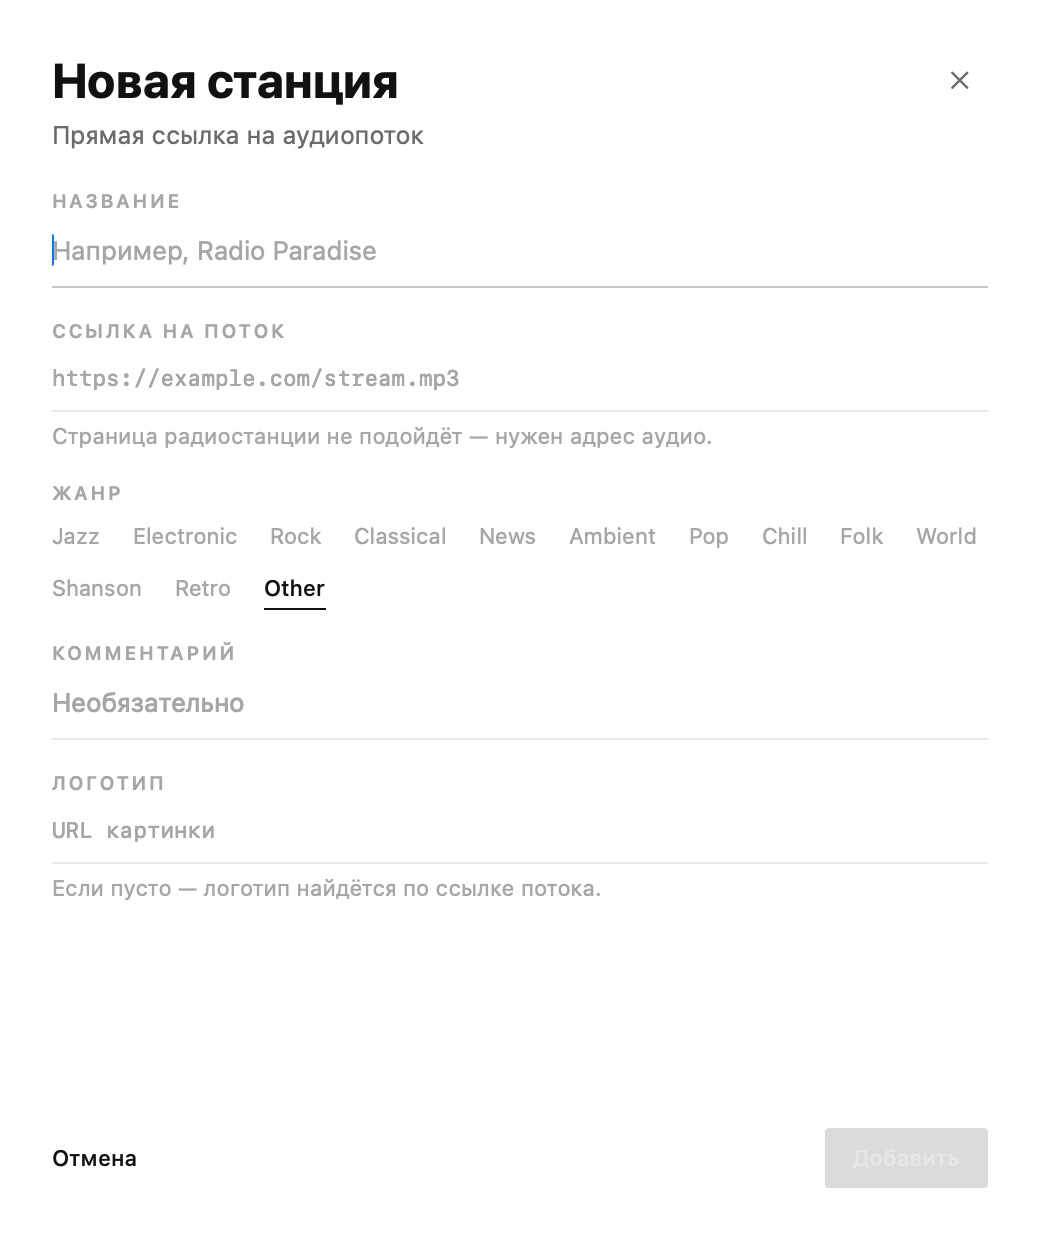
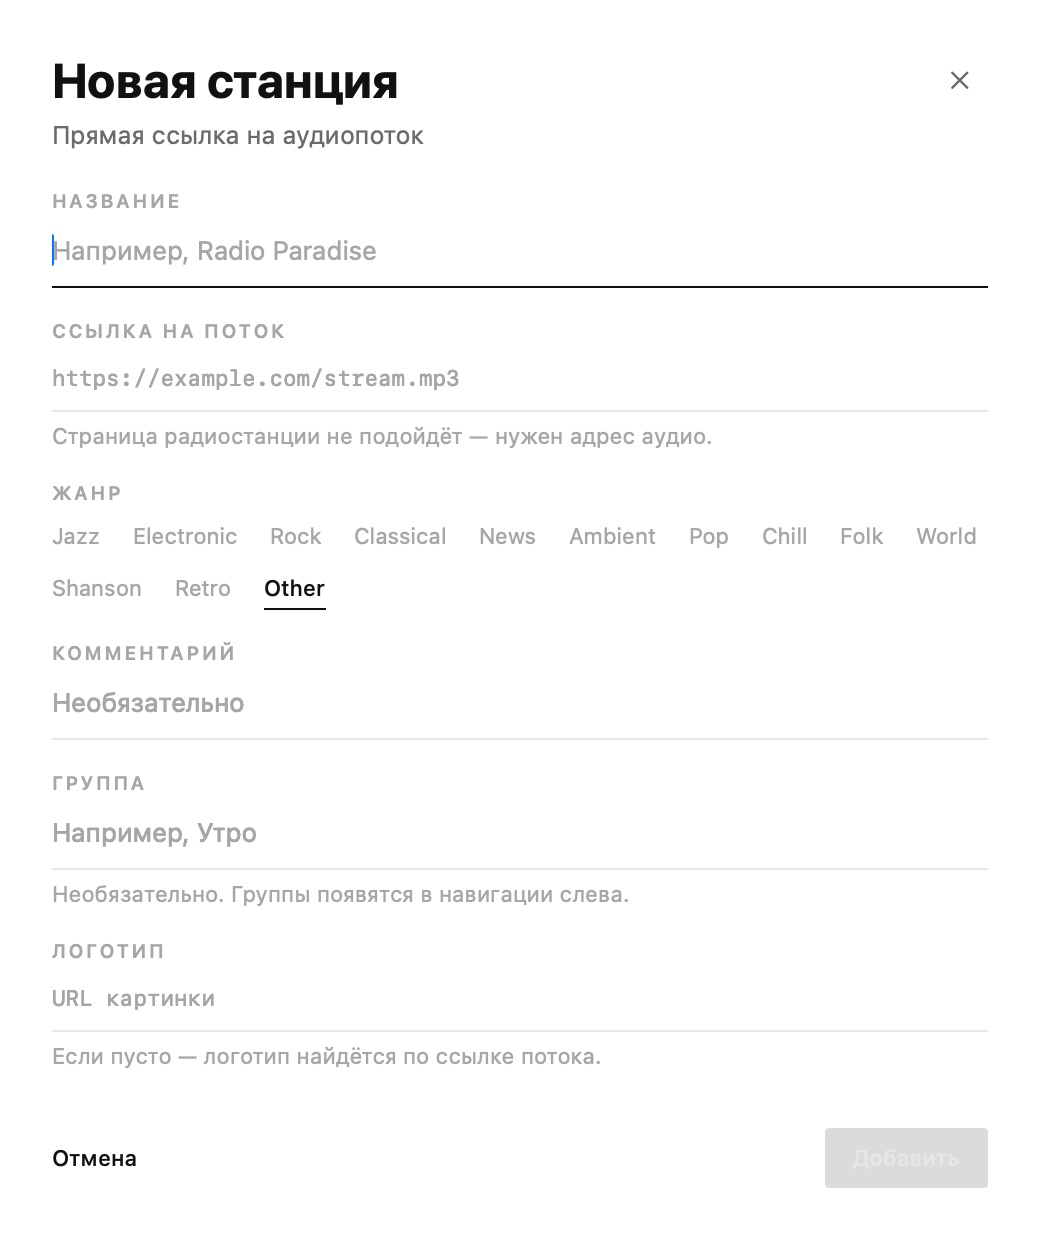
docs: document stream diagnostics and station groups (#4, #6)
- refresh README, CHANGELOG and the roadmap
- update wiki pages and screenshots for the new settings and editor
- let the wiki link checker accept local image files

Changed region(s): [[0.0615, 0.6129, 0.5846, 0.7355], [0.0615, 0.7968, 0.5846, 0.8581]]

diff --git a/scripts/check_wiki.py b/scripts/check_wiki.py
@@ -13,6 +13,7 @@ WIKI = ROOT / "wiki"
 SPECIAL = {"_Sidebar.md", "_Footer.md"}
 LINK_RE = re.compile(r"\[[^\]]*\]\(([^)]+)\)")
 EXTERNAL_PREFIXES = ("http://", "https://", "mailto:", "tel:", "data:", "#")
+FILE_SUFFIXES = (".jpg", ".jpeg", ".png", ".gif", ".webp", ".svg", ".pdf")
 
 
 def page_files() -> dict[str, pathlib.Path]:
@@ -28,6 +29,10 @@ def check_links(pages: dict[str, pathlib.Path]) -> list[str]:
                 continue
             page = target.split("#", 1)[0]
             if not page:
+                continue
+            if page.lower().endswith(FILE_SUFFIXES):
+                if not (WIKI / page).is_file():
+                    problems.append(f"{path.name}: missing local file '{target}'")
                 continue
             page = page.removesuffix(".md")
             if page not in pages:

diff --git a/ROADMAP.md b/ROADMAP.md
@@ -1,0 +1,82 @@
+# Roadmap и бэклог
+
+Список задач и фич для RadioMac. Приоритеты:
+
+- **P0** — качество эфира и дистрибуция: без этого приложение теряет в надёжности или
+  не может нормально распространяться.
+- **P1** — ежедневный сценарий: заметно улучшает повседневное использование.
+- **P2** — расширение и технический долг: полезно, но не блокирует релиз.
+
+✅ — реализовано локально, тесты 16/16; изменения ждут коммита.
+
+Каждый ID — кандидат в карточку GitHub Project
+[RadioMac #11](https://github.com/users/fso13/projects/11). В колонке «Результат» —
+критерий готовности.
+
+## P0 — сначала
+
+| ID | Задача | Результат |
+| --- | --- | --- |
+| RM-01 | **Рабочий эквалайзер на Apple Silicon** | 10 полос и пресеты работают на macOS 27/arm64 без ошибки BASS_FX 41; настройки сохраняются. Замена BASS_FX на `AVAudioUnitEQ` или совместимую сборку. |
+| RM-02 | **Поддержка HLS** | Потоки `.m3u8` (например, SOUNDPARK DEEP) играют через AVPlayer/AVAudioEngine; метаданные и Now Playing работают. |
+| RM-03 | **AAC без x86_64** | AAC-потоки (Radio Maximum) играют на Apple Silicon без Rosetta: universal `libbass_aac` или CoreAudio-путь. |
+| RM-04 | **Автопереподключение потока** | При обрыве — статус «Переподключение…», backoff 1/2/5/10 с, ограничение попыток и ручной retry. Поток восстанавливается без перезапуска станции. |
+| RM-05 | **Подпись Developer ID и нотарификация** | Релизные DMG/PKG подписаны, нотарифицированы и stapled; `spctl --assess` проходит на чистом Mac; в заметках релиза нет `xattr`-инструкции. |
+| RM-06 | **Убрать Flutter-наследие из main** | Flutter-версия перенесена в ветку/тег `flutter-legacy`; в `main` нет `macos/Podfile` и `Runner.xcodeproj`; CI/CodeQL больше не спотыкаются о старый проект. |
+
+## P1 — ежедневный сценарий
+
+| ID | Задача | Результат |
+| --- | --- | --- |
+| RM-07 | **Таймер сна** | 15/30/60/90 минут, плавное затухание за 5 секунд, индикатор в окне и меню-баре, отмена. |
+| RM-08 | **Глобальные горячие клавиши** | Настраиваемые play/pause и следующая станция при скрытом окне; проверка конфликтов с системными шорткатами. |
+| RM-09 | **App Intents, Shortcuts и URL scheme** | Команды «Играть станцию», «Пауза», «Открыть окно»; URL `radiomac://play/<id>`; интеграция с приложением «Команды». |
+| RM-10 | **История треков** | Последние 100 треков: станция, время, исполнитель; поиск, копирование, очистка; хранение локально. |
+| RM-11 | **Поиск по Radio Browser** | Поиск тысяч станций по названию, жанру и стране, превью потока, добавление в библиотеку и защита от дублей. |
+| RM-12 | **Импорт и экспорт станций** | OPML, M3U и JSON; drag-and-drop, выбор «добавить/заменить», сохранение избранного. |
+| RM-13 | **Настройки на станцию** | Смещение громкости, свой EQ-пресет и автозапуск для конкретной станции; сохраняется в библиотеке. |
+| RM-14 | **Автообновление (Sparkle 2)** | Appcast, EdDSA-подпись, проверка обновлений в приложении и в CI; переход с 1.0.1 на 1.0.2 без ручного DMG. |
+| RM-15 | **Мини-плеер в меню-баре** | Поповер с обложкой, названием, play/pause, громкостью и быстрым выбором станции — без открытия основного окна. |
+| RM-16 | **Локализация и доступность** | String Catalogs для ru/en; VoiceOver-метки, порядок фокуса, контраст, Reduce Motion; проверка основных экранов. |
+| RM-17 | **UI-тесты и снапшоты** | XCUITest для главного сценария и настроек; снапшот-тесты светлой/тёмной темы; запуск в CI. |
+
+## P2 — расширение и техдолг
+
+| ID | Задача | Результат |
+| --- | --- | --- |
+| RM-18 | **iCloud-синхронизация** | Станции, избранное и настройки синхронизируются между Mac; разрешение конфликтов и opt-in. |
+| RM-19 | **Виджет и Control Center** | Виджет macOS 14+ с текущей станцией и play/pause; элемент управления в Control Center на поддерживаемых версиях. |
+| RM-20 | **Будильник-радио** | Расписание по дням недели, выбор станции, плавное нарастание громкости, уведомление. |
+| RM-21 | **Homebrew Cask** | `brew install --cask radiomac`; формула/тап обновляется вместе с релизом. |
+| RM-22 | **Swift 6 strict concurrency** | Языковой режим Swift 6, аудит `@MainActor`, отсутствие предупреждений конкурентности; warnings as errors в CI. |
+| RM-23 | **Опциональные краш-репорты** | Выключены по умолчанию, только при согласии, без PII и истории станций; прозрачная политика. |
+| RM-24 | **Панель информации о потоке** | Кодек, битрейт, sample rate, каналы, размер буфера и сервер; копирование диагностики для issue. |
+| RM-25 | **Last.fm scrobbling** | Opt-in OAuth, отправка now-playing и scrobble, отключение одной кнопкой. |
+| RM-26 ✅ | **Группы и порядок станций** | Свои группы/теги, drag-reorder, фильтр по группе; сохраняется в библиотеке. |
+| RM-27 | **Audio engine 2.0** | Стратегический эпик: AVAudioEngine/AVPlayer вместо BASS, нативные EQ/HLS/AAC, меньше зависимостей. Может закрыть RM-01…RM-03. |
+
+## Порядок работы
+
+1. **RM-05** (подпись) и **RM-04** (стабильность) — быстрые победы, которые сразу
+   повышают доверие к релизам.
+2. **RM-01…RM-03** или **RM-27** — закрыть главные ограничения звука.
+3. **RM-06** — упростить репозиторий и CI.
+4. Далее P1 по одному-два пункта на релиз; P2 — по запросу.
+
+## Issues
+
+Все 27 пунктов заведены в GitHub Issues с меткой
+[`roadmap`](https://github.com/fso13/RadioApple/issues?q=label%3Aroadmap):
+**#3–#29**.
+
+- Приоритеты: `priority: p0`, `priority: p1`, `priority: p2`.
+- Дополнительно: `tech-debt`, `accessibility`, `bug`, `enhancement`.
+- В заголовке каждой задачи есть ID (`RM-01`…`RM-27`), в теле — контекст
+  и критерий готовности.
+
+## Project #11
+
+Добавить задачи в проект: **Project #11 → Add items → `label:roadmap`**.
+Проект: https://github.com/users/fso13/projects/11
+
+Для заполнения проекта через API токену нужен scope **`project`**.

diff --git a/wiki/Stations.md b/wiki/Stations.md
@@ -50,6 +50,17 @@
 Звёздочка в строке или пункт «В избранное» в меню ⋮. Раздел **«Избранное»** в левой
 колонке показывает только отмеченные станции. Звёздочка не влияет на воспроизведение.
 
+## Группы и порядок
+
+- В редакторе станции есть необязательное поле **«Группа»**. Группы появляются в левой
+  навигации отдельным разделом и работают как фильтр, как жанры.
+- Названия групп нечувствительны к регистру: «Утро» и «утро» считаются одной группой.
+- В разделе **«Все»** без активного поиска строки можно перетаскивать — порядок сохраняется
+  в библиотеке. В отфильтрованном списке перетаскивание отключено, чтобы не менять
+  глобальный порядок вслепую.
+- Удаление последней станции из группы убирает группу из навигации; если фильтр остался
+  на пустой группе, показывается подсказка и кнопка «Показать все».
+
 ## Редактирование и удаление
 
 Меню **⋮** в строке (и контекстное меню по правому клику):

diff --git a/wiki/Development.md b/wiki/Development.md
@@ -10,7 +10,7 @@ RadioMac/                 исходники приложения
   UI/                     SwiftUI-экраны и дизайн-система
   Window/                 статус-итем, панель, клавиатура, роутинг, debug-харнесс
   Resources/              Info.plist, entitlements, ассеты
-RadioMacTests/            13 логических тестов
+RadioMacTests/            16 логических тестов
 ThirdParty/BASS/          BASS и аддоны + SHA256SUMS
 site/                     статический сайт для GitHub Pages
 wiki/                     исходники этой вики
@@ -35,7 +35,7 @@ APP=.build/DerivedData/Build/Products/Debug/RadioMac.app
 
 Файлы: `01-main.png`, `02-settings.png`, `03-equalizer.png`, `04-editor.png`,
 `05-favorites.png`, `06-dark.png`, `07-reshown.png`, `08-playing.png`,
-`09-settings-dark.png`. Харнесс сам переключает темы, открывает листы и запускает
+`09-settings-dark.png`, `10-stream-info.png`. Харнесс сам переключает темы, открывает листы и запускает
 станцию, затем завершает приложение.
 
 `-playtest <файл>` запускает три потока (MP3, AAC, MP3) и записывает результат

diff --git a/wiki/Features.md b/wiki/Features.md
@@ -19,6 +19,18 @@ RadioMac — одно окно, одна страница и один транс
 рядом появляется маленький эквалайзер. «Все» показывает каталог, «Избранное» — только
 отмеченные звёздочкой станции. Список прокручивается, если жанров больше, чем помещается.
 
+## Группы и порядок
+
+Поле «Группа» в редакторе превращает станции в тематические подборки: «Утро», «Работа»,
+«Джаз для ужина». Группы видны в левой навигации и фильтруют таблицу. В режиме «Все»
+строки можно перетаскивать, чтобы задать собственный порядок.
+
+## Диагностика потока
+
+В настройках, раздел «Поток», видны кодек, битрейт, частота, каналы, буфер и сервер.
+Кнопка «Скопировать диагностику» собирает отчёт для issue — без телеметрии и отправки
+куда-либо.
+
 ## Таблица станций
 
 | Колонка | Что показывает |

diff --git a/wiki/Settings.md b/wiki/Settings.md
@@ -29,6 +29,18 @@
 - «Эквалайзер» показывает текущее состояние (включён/выключен/недоступен) и пресет.
 - «Настроить» открывает [Эквалайзер](Equalizer).
 
+## Поток
+
+Раздел «Поток» показывает параметры текущего эфира:
+
+- станция и статус (эфир, пауза, подключение, ошибка);
+- кодек, битрейт, частоту, число каналов и размер буфера;
+- сервер потока.
+
+**«Обновить»** перечитывает параметры у BASS, **«Скопировать диагностику»** кладёт в буфер
+обмена текстовый отчёт: версия RadioMac и macOS, станция, URL, кодек, битрейт, состояние
+эквалайзера и последняя ошибка. Удобно прикладывать к issue.
+
 ## Библиотека
 
 - Показывает количество станций.

diff --git a/wiki/Home.md b/wiki/Home.md
@@ -29,6 +29,8 @@
 - **Метаданные трека**: ICY, Icecast, SomaFM, Radio Paradise; обложки из iTunes;
   Now Playing в Control Center.
 - **10-полосный эквалайзер** с пресетами и своей кривой.
+- **Группы станций** и собственный порядок перетаскиванием.
+- **Диагностика потока**: кодек, битрейт, частота, каналы, буфер и сервер.
 - **Светлая и тёмная темы** — одна монохромная система в двух инверсиях.
 - **Живёт в меню-баре**: без Dock, с автозапуском и продолжением последней станции.
 - **Нативная песочница**, без аккаунтов и телеметрии.

diff --git a/wiki/Build.md b/wiki/Build.md
@@ -36,7 +36,8 @@ xcodebuild test -project RadioMac.xcodeproj -scheme RadioMac \
   -destination 'platform=macOS'
 ```
 
-13 логических тестов: парсер метаданных, каталог, миграция, хранилище, жанры, эквалайзер.
+16 логических тестов: парсер метаданных, каталог, миграция, хранилище, жанры, эквалайзер,
+группы/порядок станций и форматирование информации о потоке.
 Тесты запускаются в host-приложении, поэтому окно и статус-итем создаются, но это
 не влияет на результат.
 

diff --git a/CHANGELOG.md b/CHANGELOG.md
@@ -5,6 +5,13 @@
 
 ## [Unreleased]
 
+### Добавлено
+
+- Информация о потоке в настройках: кодек, битрейт, частота, каналы, буфер, сервер
+  и копирование диагностики.
+- Группы станций: поле «Группа» в редакторе, фильтр групп в навигации
+  и изменение порядка перетаскиванием в режиме «Все».
+
 ### Безопасность
 
 - Pillow обновлён до 13.0.0: закрыты 9 advisories OSV, затрагивавших 12.3.0
